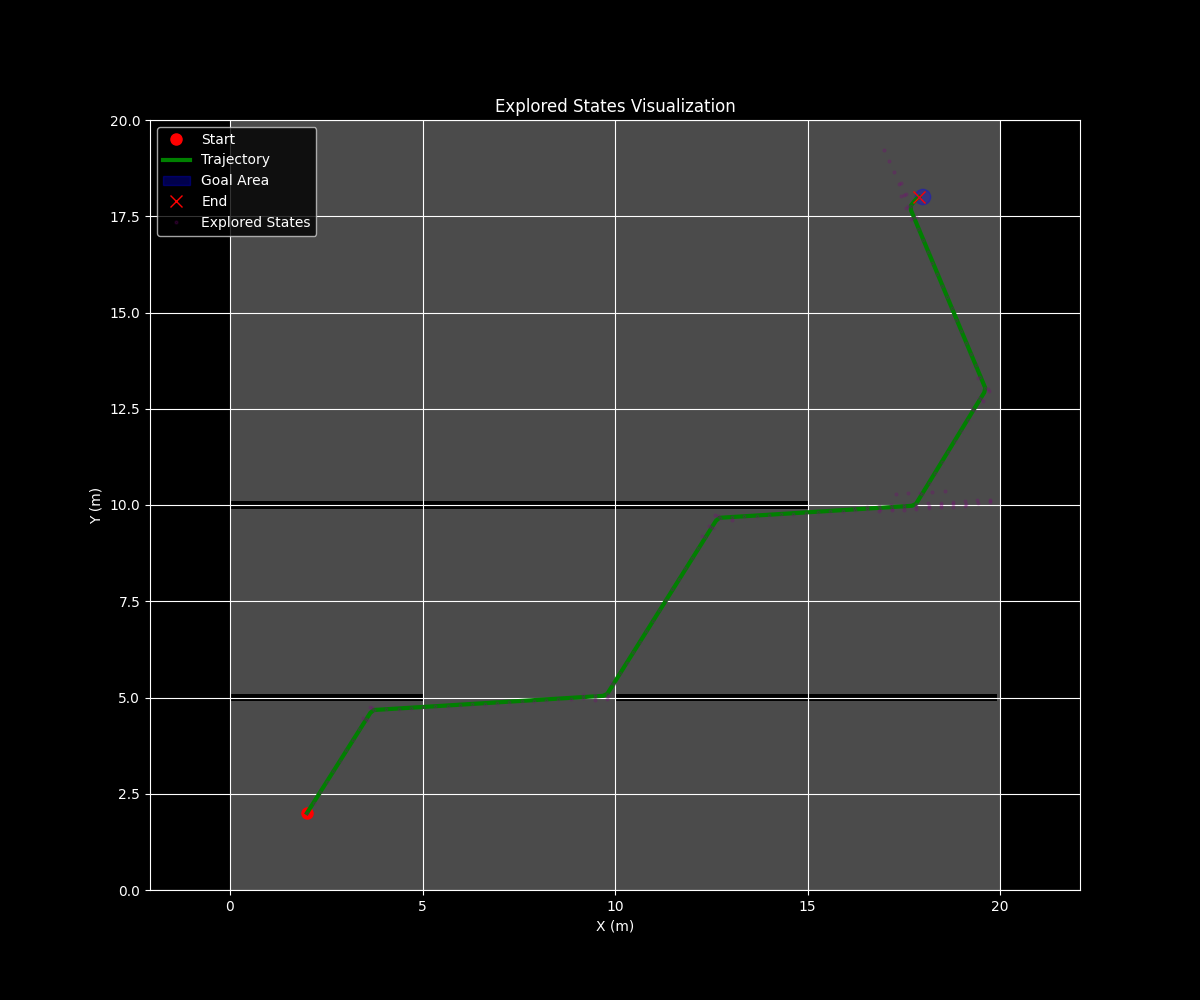
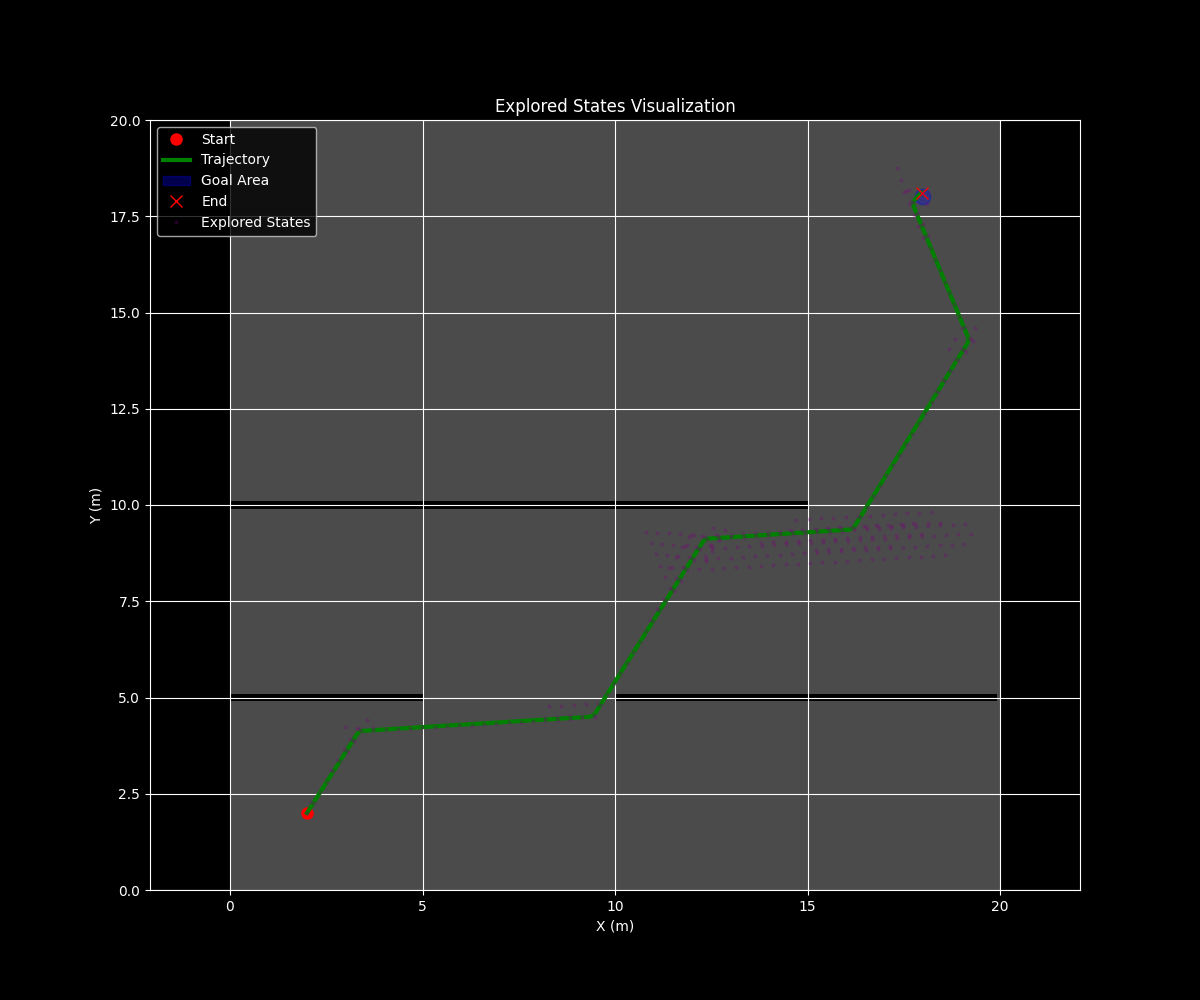
update params for safety

diff --git a/path_optimizing_algorithms/LatticeMotionPlanner.py b/path_optimizing_algorithms/LatticeMotionPlanner.py
@@ -88,8 +88,8 @@ class DiscreteLatticeMotionPlanner:
         reference_point: str = "rear",
         primitive_duration: float = 0.5,
         num_angle_discretizations: int = 256,  # Increased for smoother paths
-        heading_alignment_weight: float = 0.01,  # Heading alignment parameter
-        straightness_bonus: float = -0.3,  # Bonus for consecutive straight motions
+        heading_alignment_weight: float = 0.05,  # Heading alignment parameter
+        straightness_bonus: float = -0.2,  # Bonus for consecutive straight motions
         goal_alignment_threshold: float = 0.5,
     ):
         """
@@ -143,7 +143,7 @@ class DiscreteLatticeMotionPlanner:
         self.straightness_bonus = straightness_bonus
         # Minimum progress threshold
         self.min_progress_threshold = (
-            0.1  # Minimum progress to consider a primitive useful
+            0.0  # Minimum progress to consider a primitive useful
         )
         # Precomputed motion primitives
         self.motion_primitives = {}
@@ -339,11 +339,7 @@ class DiscreteLatticeMotionPlanner:
             )
 
             # If close enough, reconstruct command sequence and return
-            if (
-                dx <= self.goal_tolerance
-                and dy <= self.goal_tolerance
-                and dtheta <= self.goal_theta_tolerance
-            ):
+            if dx <= self.goal_tolerance and dy <= self.goal_tolerance:
                 print(f"GOAL REACHED! Nodes explored: {nodes_explored}")
                 self.nodes_explored = nodes_explored
                 self.command_sequence = self._reconstruct_path(current_node)
@@ -608,7 +604,7 @@ class DiscreteLatticeMotionPlanner:
         # Vehicle dimensions and safety margin (in meters)
         vehicle_length = 0.3
         vehicle_width = 0.15
-        safety_margin = 0.1
+        safety_margin = 0.5
         total_margin = safety_margin + max(vehicle_length, vehicle_width) / 2
 
         # Sample points along trajectory more densely
@@ -641,8 +637,8 @@ class DiscreteLatticeMotionPlanner:
             margin_cells = int(total_margin / self.grid.resolution)
 
             # Check a rectangular region around the point
-            check_x = int(grid_x)
-            check_y = int(grid_y)
+            check_x = int(grid_x) + 5
+            check_y = int(grid_y) + 5
 
             if (
                 check_x < 0

diff --git a/test_phase2.py b/test_phase2.py
@@ -171,7 +171,7 @@ def test_phase2() -> None:
 
     if integrated_controller:
         # Phase 2: Execution
-        # execute_phase2(sim, integrated_controller) # Commented out by user
+        execute_phase2(sim, integrated_controller)  # Commented out by user
         pass
     else:
         print("Phase 2 planning failed!")
@@ -232,7 +232,7 @@ def transition_to_phase2(
         goal_pose.x,
         goal_pose.y,
         goal_pose.theta,
-        timeout=10000.0,  # Allow more time for complex paths
+        timeout=2500.0,  # Allow more time for complex paths
     )
 
     # Test the calculate_goal_progress method

diff --git a/pathfinding_algorithms/ConstantPPC.py b/pathfinding_algorithms/ConstantPPC.py
@@ -403,9 +403,7 @@ class ConstantPurePursuitController:
         self.error_history.append(heading_error)
 
         # Pure Pursuit base steering calculation
-        lookahead_distance = np.sqrt(
-            (target_x - calc_x) ** 2 + (target_y - calc_y) ** 2
-        )
+        lookahead_distance = self.calculate_adaptive_lookahead(closest_idx)
 
         if lookahead_distance > 0.01:
             base_steering = np.arctan2(
